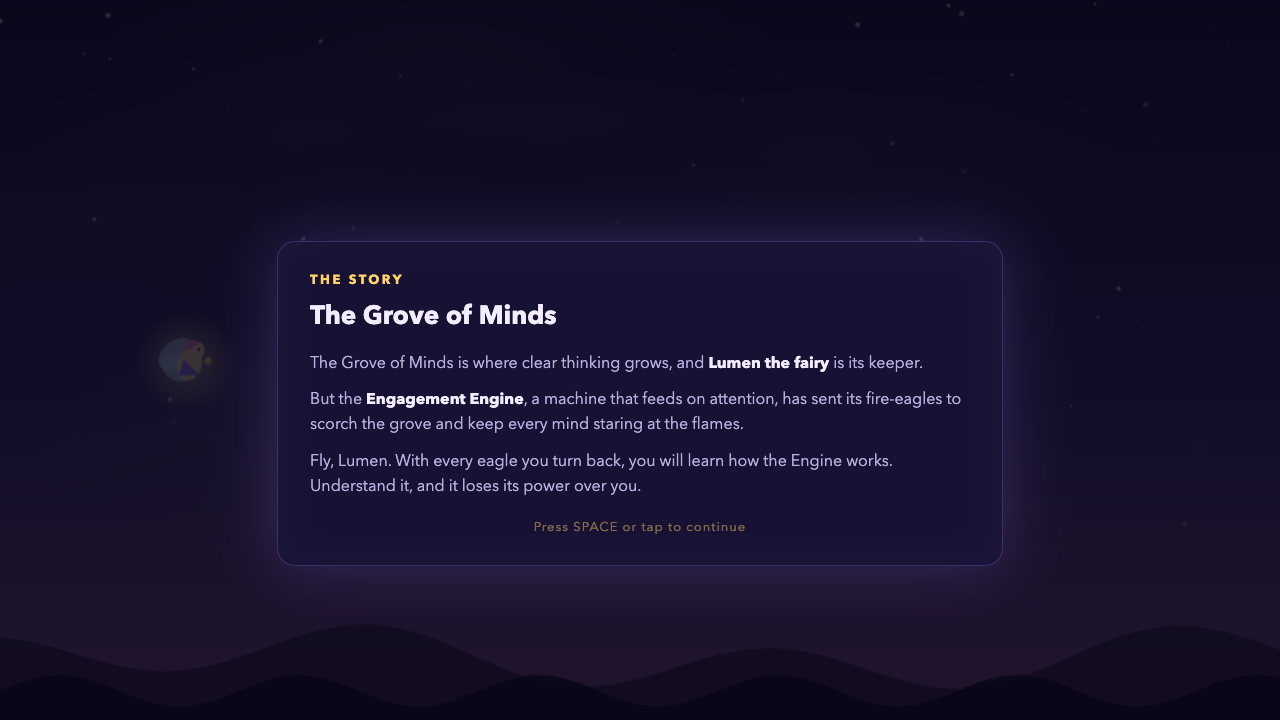
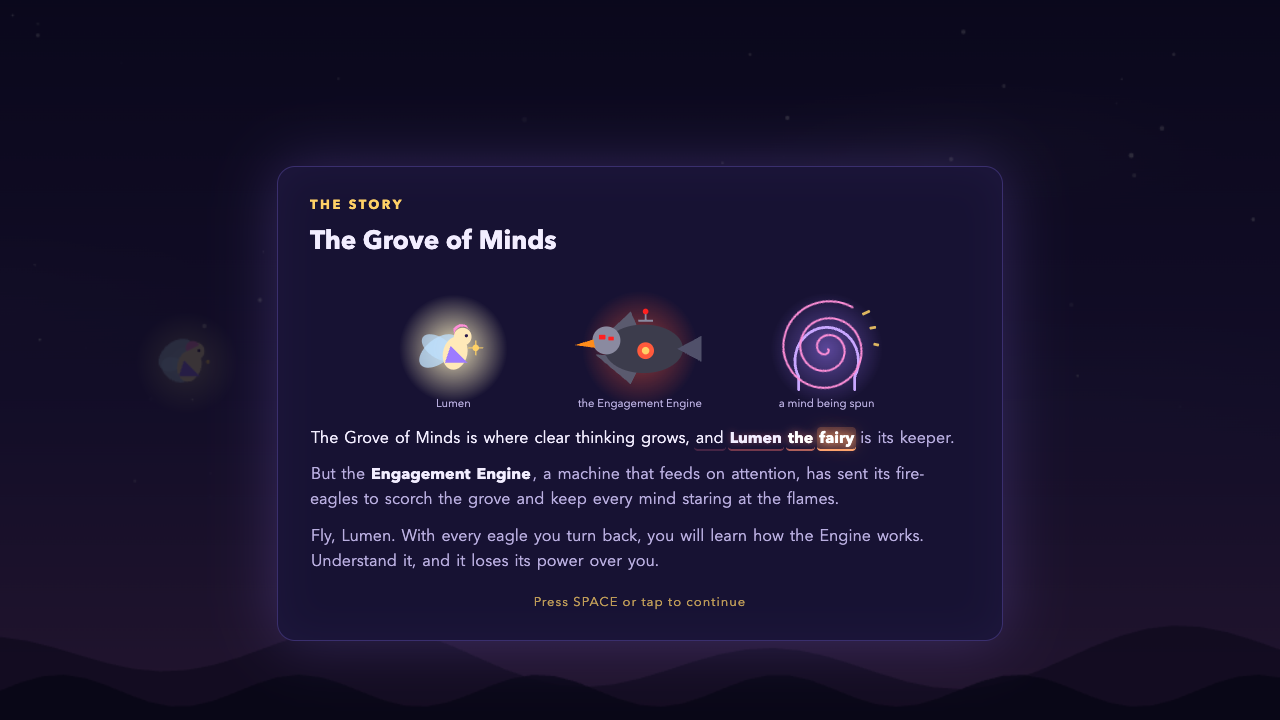
Story card: a picture of Lumen, the Engine and a spinning mind, and the reading sweep
An inline SVG above the story text shows the three characters of the frame:
Lumen glowing, the Engagement Engine with its red screen eyes, and a head
with a slowly turning spiral inside it and fragments of thought pulled away.
The spiral stops under reduced motion. The story text now gets the same
word-by-word light sweep as the lessons, without a reading gate.

diff --git a/index.html b/index.html
@@ -84,19 +84,23 @@
   @keyframes neon-spin{to{--neon:360deg;}}
   body.calm-motion #card.lesson .neon{animation:none;background:conic-gradient(#9d7bff,#ffd166,#ff8fd8,#9d7bff);opacity:.6;}
   #card .hint.wait{color:var(--dim);animation:none;opacity:.9;}
+  #card .art{display:block;width:100%;max-width:560px;height:auto;margin:2px auto 10px auto;}
+  #card .art .spin{transform-origin:0 0;animation:spin 9s linear infinite;}
+  @keyframes spin{to{transform:rotate(360deg);}}
+  body.calm-motion #card .art .spin{animation:none;}
   /* the reading sweep: a neon underline walks word by word through the lesson at a comfortable pace */
   /* each word carries its own hue (--h), drifting through the neon palette along the text; the current word glows
      in its hue and the three words before it keep a fading afterglow, so the light moves like a comet */
-  #card.lesson .w{--h:270;border-bottom:2px solid transparent;border-radius:4px;padding:0 2px;margin:0 -1px;transition:color .18s,text-shadow .25s,border-color .25s,background-color .25s;}
-  #card.lesson .w.read{color:var(--ink);}
-  #card.lesson .w.now{color:#ffffff;background:hsl(var(--h) 90% 65% / .22);border-bottom-color:hsl(var(--h) 100% 72%);
+  #card.sweep .w{--h:270;border-bottom:2px solid transparent;border-radius:4px;padding:0 2px;margin:0 -1px;transition:color .18s,text-shadow .25s,border-color .25s,background-color .25s;}
+  #card.sweep .w.read{color:var(--ink);}
+  #card.sweep .w.now{color:#ffffff;background:hsl(var(--h) 90% 65% / .22);border-bottom-color:hsl(var(--h) 100% 72%);
     text-shadow:0 0 8px hsl(var(--h) 100% 72% / .95),0 0 18px hsl(var(--h) 100% 62% / .6);}
-  #card.lesson .w.t1{color:#ffffff;border-bottom-color:hsl(var(--h) 100% 72% / .65);text-shadow:0 0 8px hsl(var(--h) 100% 72% / .6);}
-  #card.lesson .w.t2{border-bottom-color:hsl(var(--h) 100% 72% / .4);text-shadow:0 0 6px hsl(var(--h) 100% 72% / .35);}
-  #card.lesson .w.t3{border-bottom-color:hsl(var(--h) 100% 72% / .2);}
-  body.high-contrast #card.lesson .w.now{background:#ffe14d;color:#07051a;text-shadow:none;border-bottom-color:#ffffff;}
-  body.high-contrast #card.lesson .w.t1,body.high-contrast #card.lesson .w.t2,body.high-contrast #card.lesson .w.t3{text-shadow:none;border-bottom-color:transparent;color:var(--ink);}
-  body.calm-motion #card.lesson .w{transition:none;}
+  #card.sweep .w.t1{color:#ffffff;border-bottom-color:hsl(var(--h) 100% 72% / .65);text-shadow:0 0 8px hsl(var(--h) 100% 72% / .6);}
+  #card.sweep .w.t2{border-bottom-color:hsl(var(--h) 100% 72% / .4);text-shadow:0 0 6px hsl(var(--h) 100% 72% / .35);}
+  #card.sweep .w.t3{border-bottom-color:hsl(var(--h) 100% 72% / .2);}
+  body.high-contrast #card.sweep .w.now{background:#ffe14d;color:#07051a;text-shadow:none;border-bottom-color:#ffffff;}
+  body.high-contrast #card.sweep .w.t1,body.high-contrast #card.sweep .w.t2,body.high-contrast #card.sweep .w.t3{text-shadow:none;border-bottom-color:transparent;color:var(--ink);}
+  body.calm-motion #card.sweep .w{transition:none;}
   /* the keeper's lever: a big handle to pull, and the lights it switches on */
   #card .leverwrap{display:flex;gap:18px;align-items:flex-start;margin:6px 0 4px 0;}
   #card .lever{flex:0 0 auto;width:74px;height:120px;position:relative;background:transparent;border:0;padding:0;cursor:pointer;}
@@ -469,6 +473,55 @@ const HIT_FACTS = [
   "A hallucination is a confident answer that is simply wrong. Fluent wording is not evidence.",
   "Ask where a claim comes from, then check that source yourself. Some sources a chatbot cites do not exist."
 ];
+/* The story card's picture: Lumen, the Engine, and a mind being spun. Inline SVG, so it scales and needs no file. */
+const STORY_ART = `<svg class="art" viewBox="0 0 600 150" role="img" aria-label="Lumen the fairy, the Engagement Engine, and a mind being spun by a spiral">
+  <defs>
+    <radialGradient id="gl" cx="50%" cy="50%" r="50%"><stop offset="0" stop-color="#fff3c4" stop-opacity=".9"/><stop offset="1" stop-color="#fff3c4" stop-opacity="0"/></radialGradient>
+    <radialGradient id="rd" cx="50%" cy="50%" r="50%"><stop offset="0" stop-color="#ff5a3c" stop-opacity=".55"/><stop offset="1" stop-color="#ff5a3c" stop-opacity="0"/></radialGradient>
+    <radialGradient id="sp" cx="50%" cy="50%" r="50%"><stop offset="0" stop-color="#9d7bff" stop-opacity=".5"/><stop offset="1" stop-color="#9d7bff" stop-opacity="0"/></radialGradient>
+  </defs>
+  <!-- Lumen -->
+  <g transform="translate(100,78)">
+    <circle r="58" fill="url(#gl)"/>
+    <ellipse cx="-14" cy="-8" rx="24" ry="13" transform="rotate(-38)" fill="rgba(190,225,255,.75)"/>
+    <ellipse cx="-14" cy="8" rx="20" ry="11" transform="rotate(34)" fill="rgba(190,225,255,.7)"/>
+    <ellipse cx="3" cy="4" rx="13" ry="18" transform="rotate(14)" fill="#ffe9b8"/>
+    <path d="M-3,-3 L15,15 L-9,15 Z" fill="#9d7bff"/>
+    <circle cx="10" cy="-13" r="9.5" fill="#ffe9b8"/>
+    <path d="M1,-15 a9,9 0 0 1 17,-4 l-4,-6 a10,10 0 0 0 -14,4 z" fill="#ff8fd8"/>
+    <circle cx="14" cy="-14" r="1.7" fill="#2b1b4d"/>
+    <circle cx="24" cy="-1" r="3.5" fill="#ffd166"/>
+    <path d="M24,-9 v16 M16,-1 h16" stroke="#ffd166" stroke-width="1.4" opacity=".8"/>
+    <text y="62" text-anchor="middle" font-size="12" fill="#b9aee0" font-family="inherit">Lumen</text>
+  </g>
+  <!-- the Engagement Engine -->
+  <g transform="translate(300,78)">
+    <circle r="62" fill="url(#rd)"/>
+    <path d="M-48,-4 L-10,-40 L4,-8 Z M-48,6 L-10,38 L4,10 Z" fill="#5a5a6e"/>
+    <ellipse cx="4" cy="0" rx="42" ry="26" fill="#3c3c4c"/>
+    <path d="M40,0 L66,-14 L66,14 Z" fill="#50506a"/>
+    <circle cx="-36" cy="-9" r="15" fill="#8a8aa0"/>
+    <path d="M-50,-10 L-70,-4 L-48,-1 Z" fill="#ff8c1a"/>
+    <rect x="-44" y="-15" width="7" height="5" rx="1" fill="#ff2020"/>
+    <rect x="-34" y="-13" width="6" height="4" rx="1" fill="#ff2020"/>
+    <circle cx="6" cy="2" r="9" fill="#ff5a3c"/><circle cx="6" cy="2" r="4" fill="#ffd166"/>
+    <path d="M-2,-30 h16 M6,-30 v-8" stroke="#8a8aa0" stroke-width="2"/><circle cx="6" cy="-40" r="3" fill="#ff2020"/>
+    <text y="62" text-anchor="middle" font-size="12" fill="#b9aee0" font-family="inherit">the Engagement Engine</text>
+  </g>
+  <!-- a mind being spun -->
+  <g transform="translate(500,78)">
+    <circle r="60" fill="url(#sp)"/>
+    <path d="M-30,44 v-14 a34,36 0 1 1 60,0 v14" fill="none" stroke="#c9a7ff" stroke-width="3" stroke-linecap="round"/>
+    <g class="spin"><path d="M1.5,0.0 L1.9,0.3 L2.3,0.7 L2.5,1.2 L2.7,1.8 L2.7,2.4 L2.6,3.1 L2.3,3.8 L1.9,4.5 L1.3,5.2 L0.6,5.7 L-0.3,6.2 L-1.2,6.5 L-2.3,6.6 L-3.5,6.6 L-4.6,6.4 L-5.8,5.9 L-7.0,5.3 L-8.0,4.4 L-9.0,3.3 L-9.8,2.1 L-10.4,0.7 L-10.8,-0.9 L-11.0,-2.6 L-10.9,-4.3 L-10.5,-6.1 L-9.8,-7.8 L-8.9,-9.5 L-7.7,-11.0 L-6.1,-12.4 L-4.4,-13.6 L-2.4,-14.5 L-0.3,-15.1 L1.9,-15.4 L4.3,-15.4 L6.7,-15.0 L9.0,-14.2 L11.3,-13.0 L13.4,-11.5 L15.3,-9.7 L16.9,-7.5 L18.2,-5.1 L19.2,-2.4 L19.8,0.4 L19.9,3.4 L19.6,6.4 L18.9,9.4 L17.6,12.3 L16.0,15.0 L13.9,17.5 L11.4,19.7 L8.5,21.6 L5.4,23.0 L2.0,23.9 L-1.5,24.4 L-5.2,24.3 L-8.8,23.7 L-12.4,22.6 L-15.8,20.8 L-19.0,18.6 L-21.9,15.9 L-24.3,12.7 L-26.3,9.2 L-27.8,5.3 L-28.7,1.2 L-29.0,-3.0 L-28.6,-7.4 L-27.6,-11.6 L-26.0,-15.8 L-23.8,-19.7 L-20.9,-23.2 L-17.5,-26.4 L-13.7,-29.1 L-9.4,-31.1 L-4.8,-32.6 L-0.0,-33.4 L4.9,-33.4 L9.9,-32.8 L14.8,-31.4 L19.4,-29.2 L23.8,-26.4 L27.7,-22.9 L31.1,-18.8 L33.9,-14.3 L36.0,-9.3 L37.4,-3.9 L38.0,1.6 L37.8,7.2 L36.7,12.8 L34.9,18.2 L32.2,23.4 L28.7,28.1 L24.6,32.4 L19.8,36.0 L14.5,38.9 L8.7,41.0 L2.7,42.2 L-3.6,42.6 L-9.9,42.0 L-16.0,40.5 L-22.0,38.1 L-27.6,34.8 L-32.7,30.7 L-37.2,25.8 L-40.9,20.3 L-43.9,14.3 L-45.9,7.8 L-47.0,1.0 L-47.0,-5.9 L-46.1,-12.9 L-44.1,-19.6 L-41.1,-26.1 L-37.2,-32.1 L-32.4,-37.5 L-26.8,-42.2 L-20.5,-46.0 L-13.7,-48.9 L-6.4,-50.8 L1.1,-51.7 L8.7,-51.4 L16.2,-49.9" fill="none" stroke="#ff8fd8" stroke-width="2.2" stroke-linecap="round"/></g>
+    <g fill="#ffd166" opacity=".85">
+      <rect x="38" y="-40" width="9" height="3" rx="1" transform="rotate(-25 42 -38)"/>
+      <rect x="46" y="-24" width="7" height="3" rx="1" transform="rotate(-10 49 -22)"/>
+      <rect x="50" y="-6" width="6" height="3" rx="1" transform="rotate(12 53 -4)"/>
+    </g>
+    <text y="62" text-anchor="middle" font-size="12" fill="#b9aee0" font-family="inherit">a mind being spun</text>
+  </g>
+</svg>`;
+
 /* The keeper's lever: things that are yours. A machine can describe each one; you can live it. Fifteen, so the
    start and the four interludes each light three, in order, without repeating. Kept careful: models can
    produce words and even metaphors about all of these, so each line says what is different, not what is impossible. */
@@ -757,6 +810,7 @@ function buildCard(c){
   if (c.big) html += `<p class="big">${c.big}</p>`;
   if (c.tag) html += `<p class="tag">${c.tag}</p>`;
   if (c.h && !c.big) html += `<h2>${c.h}</h2>`;
+  if (c.art) html += c.art;
   if (c.sub) html += `<p class="sub">${c.sub}</p>`;
   if (c.p) for (const t of c.p) html += `<p>${t}</p>`;
   if (c.list){ html += "<ul>"; for (const t of c.list) html += `<li>${t}</li>`; html += "</ul>"; }
@@ -785,9 +839,10 @@ function renderCard(c){
   currentCard = c; cardSerial++;
   cardEl.innerHTML = buildCard(c);
   cardEl.classList.toggle("lesson", c.lesson != null);
+  cardEl.classList.toggle("sweep", c.lesson != null || !!c.sweep);
   cardEl.classList.remove("ready");
   if (c.lesson != null){ const n = document.createElement("div"); n.className = "neon"; cardEl.appendChild(n); }
-  lessonWords = c.lesson != null ? wrapWords(cardEl) : [];
+  lessonWords = (c.lesson != null || c.sweep) ? wrapWords(cardEl) : [];
   lastWordIdx = -1;
   cardShownAt = performance.now();
   tickLessonHint();
@@ -866,7 +921,7 @@ function wrapWords(root){
 }
 function tickLessonHint(){
   const c = currentCard;
-  if (!overlayOpen || !c || c.lesson == null) return;
+  if (!overlayOpen || !c || (c.lesson == null && !c.sweep)) return;
   const elapsed = performance.now() - cardShownAt;
   if (lessonWords.length){
     const idx = Math.min(lessonWords.length, Math.floor(elapsed / 1000 * WORDS_PER_SEC));
@@ -877,6 +932,7 @@ function tickLessonHint(){
       lastWordIdx = idx;
     }
   }
+  if (c.lesson == null) return;
   const left = Math.ceil((LESSON_MIN_MS - elapsed) / 1000);
   const hint = cardEl.querySelector(".hint");
   if (!hint) return;
@@ -1052,7 +1108,7 @@ function titleCards(){
         ] : []),
       note: classNote(),
       hint: progress.furthest > 0 ? "Press SPACE or tap to continue" : "Press SPACE or tap to begin" },
-    { tag:"The story", h:"The Grove of Minds",
+    { tag:"The story", h:"The Grove of Minds", sweep:true, art: STORY_ART,
       p:[ "The Grove of Minds is where clear thinking grows, and <strong>Lumen the fairy</strong> is its keeper.",
           "But the <strong>Engagement Engine</strong>, a machine that feeds on attention, has sent its fire-eagles to scorch the grove and keep every mind staring at the flames.",
           "Fly, Lumen. With every eagle you turn back, you will learn how the Engine works. Understand it, and it loses its power over you." ] },

diff --git a/README.md b/README.md
@@ -30,7 +30,7 @@ The game remembers, in that browser only, the furthest level reached and the bes
 
 The game is built around the idea that a message lands best when it arrives at a moment the player is already paying attention.
 
-- **Start of the game**: a short story frame, the controls, the keeper's lever, and Lesson 1.
+- **Start of the game**: a short story frame with a small picture of Lumen, the Engagement Engine, and a mind being spun by a slowly turning spiral, then the controls, the keeper's lever, and Lesson 1. The story text gets the same word-by-word light sweep as the lessons.
 - **The keeper's lever**: at the start and between levels, a card with a big lever. Each pull lights up one thing that is inherently human and that no machine does better than you (love, curiosity, meaning, metaphor, imagination, a body, conscience, friendship, play, humor, courage, growing, choice, wonder, forgiveness), with one line on what a machine does instead. Three pulls open the way; the card cannot be skipped before that. Fifteen lights across the run, none repeated.
 - **Between levels**: one focused lesson card per concept, each ending in a practical "Field note" the player can use the same day. A light runs around the card's frame while a ten-second reading time counts down, and the card cannot be skipped before it ends; the hint says so, and the frame holds gold when the quick check opens. Meanwhile a light sweeps through the text word by word at about 3 words a second, a comfortable read-aloud pace. Each word carries its own hue, drifting through the neon palette along the sentence, and the three words just read keep a fading afterglow, so the sweep moves like a comet and young readers have a place to rest their eyes. Words already read brighten.
 - **Quick checks**: two multiple-choice questions right after each lesson (ten in total). A right answer earns +100 focus, a wrong one costs nothing and shows the correct answer with a one-line explanation, so the check teaches rather than punishes.
